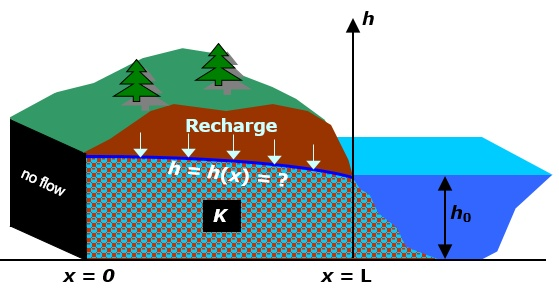
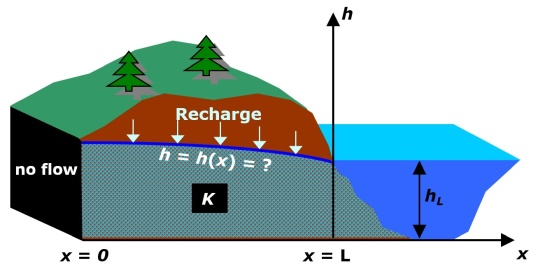
update fig scenario 1 and bc equations

Changed region(s): [[0.0, 0.0296, 1.0, 0.9778], [0.0896, 0.2667, 0.1791, 0.3259], [0.0597, 0.3259, 0.0896, 0.3556]]

diff --git a/90_Streamlit_apps/GWP_Boundary_Conditions/content/GWP_BC_QHGeneral.py b/90_Streamlit_apps/GWP_Boundary_Conditions/content/GWP_BC_QHGeneral.py
@@ -258,9 +258,13 @@ with st.expander('Show more about the theory of the :blue[**model and the analyt
     st.markdown("""
             The equation can be solved by using suitable boundary conditions:
             
-            :green[**Scenario 1**]: at $x=0$, $dh/dx=0$ and at $x=L$, $h=h_o$
+            :green[**Scenario 1**]:
+            - at $x=0$, $dh/dx=0$ and
+            - at $x=L$, $h=h_L$
             
-            :red[**Scenario 2**]: at $x=0$, $h=h_L$ and at $x=L$, $h=h_o$
+            :red[**Scenario 2**]:
+            - at $x=0$, $h=h_0$ and
+            - at $x=L$, $h=h_L$
             
             """, unsafe_allow_html=True)
       
